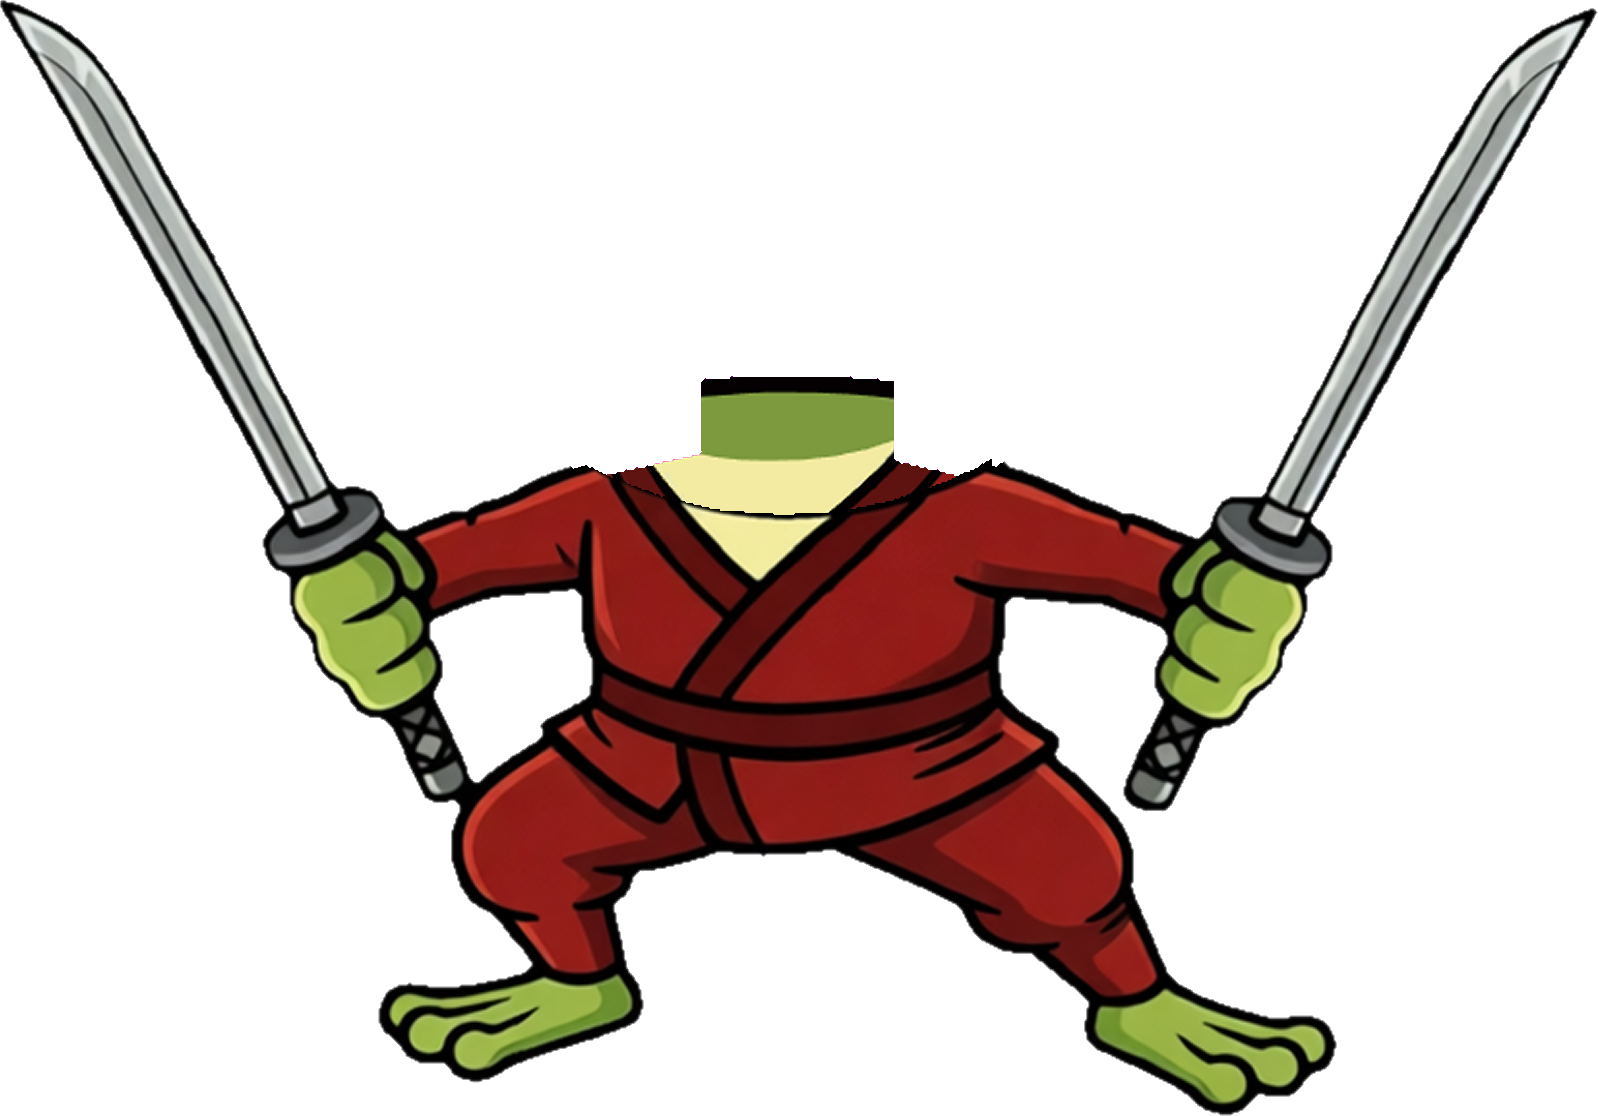
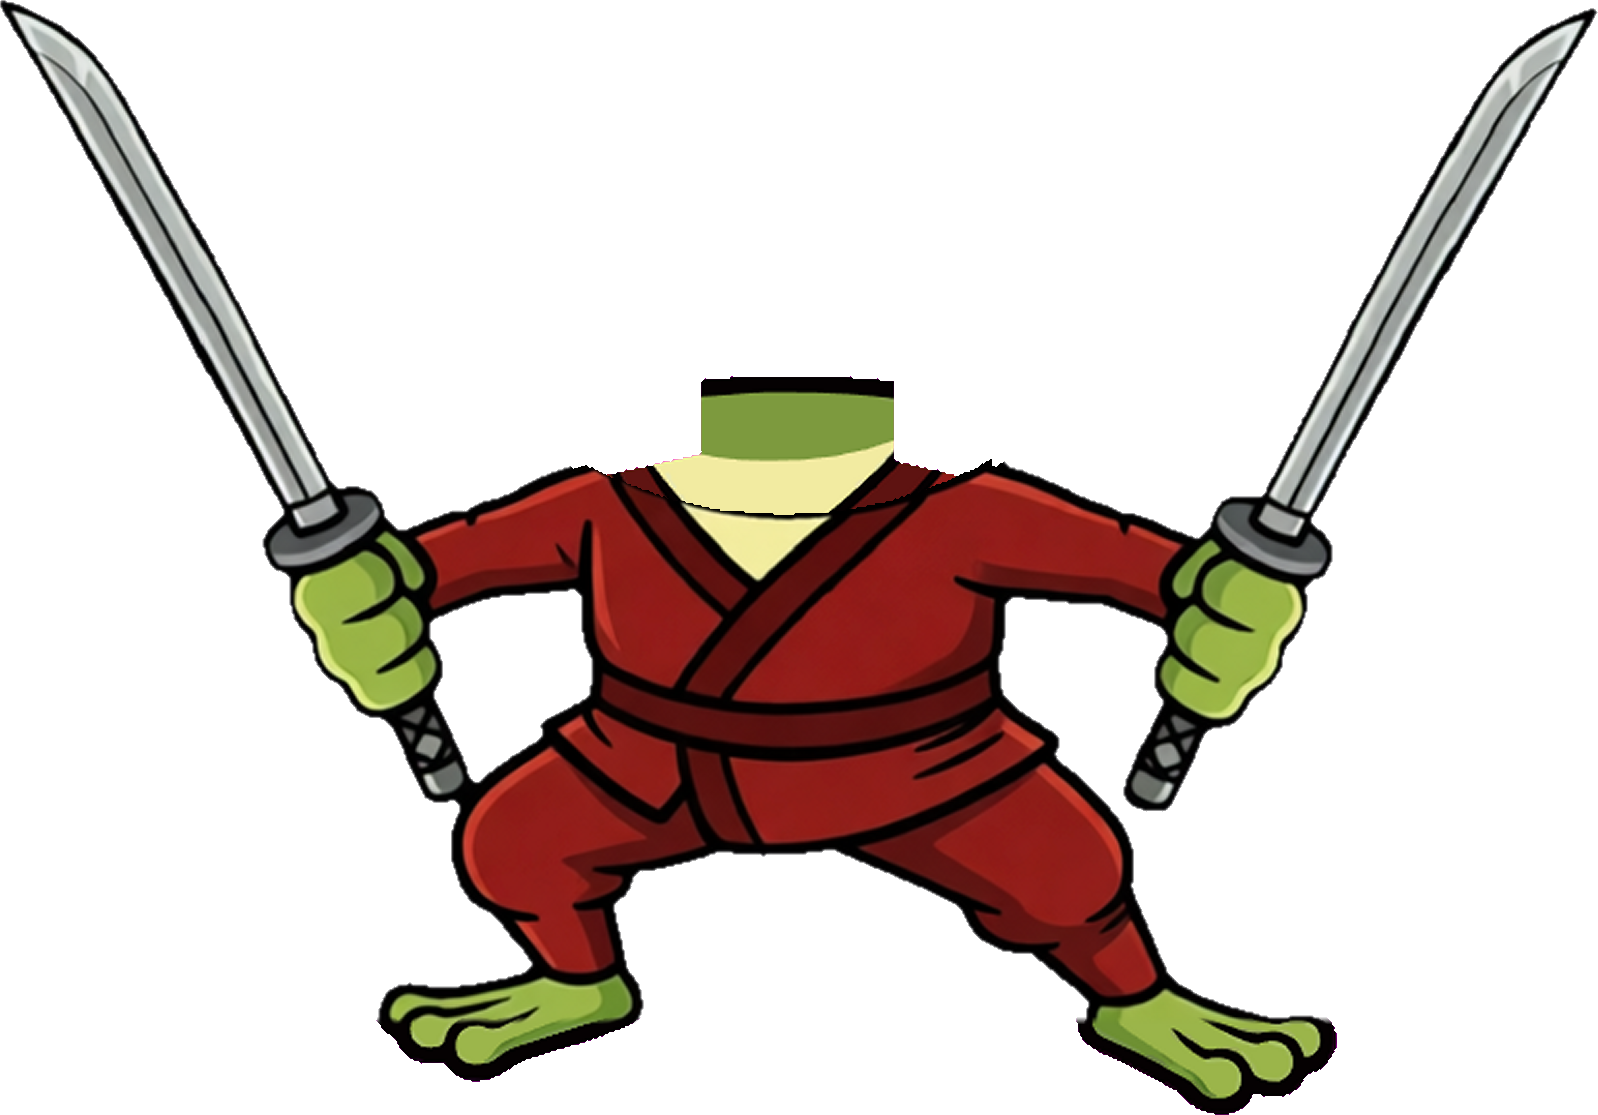
Frog Ninja: the painted standing frog keeps the rig's own feet (toes on the post)

diff --git a/static/js/views/frog-game.js b/static/js/views/frog-game.js
@@ -1193,7 +1193,7 @@ function drawLaptop(ctx, b, lw) {
 // The standing frog, painted (Marek's pick, 2026-11-24): body, arms, fists and katanas as one picture, standing ready and
 // pressed (the wind-up); the rig's head and tails go on top. x, y, w, h: where it sits in the frog's units. ?stand=0: the rig.
 // STAND_ART:begin (written by design/frog/tools/art_build_stand.py: do not edit by hand)
-const STAND_ART = { ready: { url: '/img/game/frog/stand-ready.c9e24b6132.webp', x: -596.0, y: -532.0, w: 3196.0, h: 2232.0 }, wind: { url: '/img/game/frog/stand-wind.1d99b5f478.webp', x: -1142.0, y: -176.0, w: 4274.0, h: 1866.0 } };
+const STAND_ART = { ready: { url: '/img/game/frog/stand-ready.b67e24e216.webp', x: -596.0, y: -532.0, w: 3196.0, h: 2230.0 }, wind: { url: '/img/game/frog/stand-wind.e6350c00c7.webp', x: -1142.0, y: -176.0, w: 4274.0, h: 1874.0 } };
 // STAND_ART:end
 const STAND_ON = typeof location === 'undefined' || !/[?&]stand=0(&|$)/.test(location.search);
 // The frog's splash when it goes into the sea at the end of a run, painted (built by art_build_splash.py).

diff --git a/design/frog/tools/art_stand_cut.py b/design/frog/tools/art_stand_cut.py
@@ -5,6 +5,7 @@ capture by the legs, put in frog units (K px a unit), the redrawn head taken out
 rig's own neck put under it. Writes stand-<state>.png and stand.json (x, y, w, h in frog units): copy them to
 design/frog/art/sources/stand/ as ready.png, wind.png, stand.json. Run in the folder with the captures."""
 import sys, os, json, numpy as np
+import sys, os, json, numpy as np
 sys.path.insert(0, r'C:\Users\marek\Documents\GitHub\cfp.ninja\design\frog\tools')
 from art_build_gull import keyed
 from PIL import Image
@@ -20,6 +21,7 @@ def notmag(im):
 def redmask(A): return (A[..., 0] > 110) & (A[..., 1] < 70) & (A[..., 2] < 70)
 ref = np.asarray(Image.open('in-idle.png').convert('RGB')).astype(float); rm = np.median(ref[redmask(ref)], axis=0)
 out = {}
+ANKLE = 1500          # frog units: from here down the rig's feet
 for state, gen in (('ready', 'd-6'), ('wind', 'w-3')):
     im = Image.open(gen).convert('RGB').resize((1200, 800), Image.LANCZOS); A = np.asarray(im).astype(float)
     m = (A[..., 0] > 80) & (A[..., 1] < 75) & (A[..., 2] < 75) & (A[..., 0] > A[..., 1] * 1.8)
@@ -57,6 +59,12 @@ for state, gen in (('ready', 'd-6'), ('wind', 'w-3')):
     under = PA.copy(); under[..., :3] = BI; under[..., 3] = neck * 255
     PA = np.asarray(Image.alpha_composite(Image.fromarray(under, 'RGBA'), Image.fromarray(PA, 'RGBA'))).copy()
     # soften the cut edge under the head a touch is not needed: the head covers it
+    # the feet are the rig's own (the redrawn toes sat a little off the post's edge): from the ankles down, blended over a few rows
+    yc = int((ANKLE - U0[1]) * K); wgt = np.clip((np.arange(RH) - yc) / 8.0, 0, 1)[:, None]
+    rig = np.dstack([BI, (B * 255).astype(np.uint8)]).astype(float); PAf = PA.astype(float)
+    pm = PAf.copy(); pm[..., :3] *= PAf[..., 3:] / 255; rg = rig.copy(); rg[..., :3] *= rig[..., 3:] / 255
+    mix = pm * (1 - wgt[..., None]) + rg * wgt[..., None]; aa = np.maximum(mix[..., 3:], 1e-6)
+    PA = np.dstack([np.clip(mix[..., :3] / aa * 255, 0, 255), mix[..., 3]]).astype(np.uint8)
     P2 = Image.fromarray(PA, 'RGBA')
     al2 = PA[..., 3] > 40
     peek = B & ~al2 & ~ndimage.binary_dilation(M, iterations=6); print(state, 'body peeking px', int(peek.sum()))
